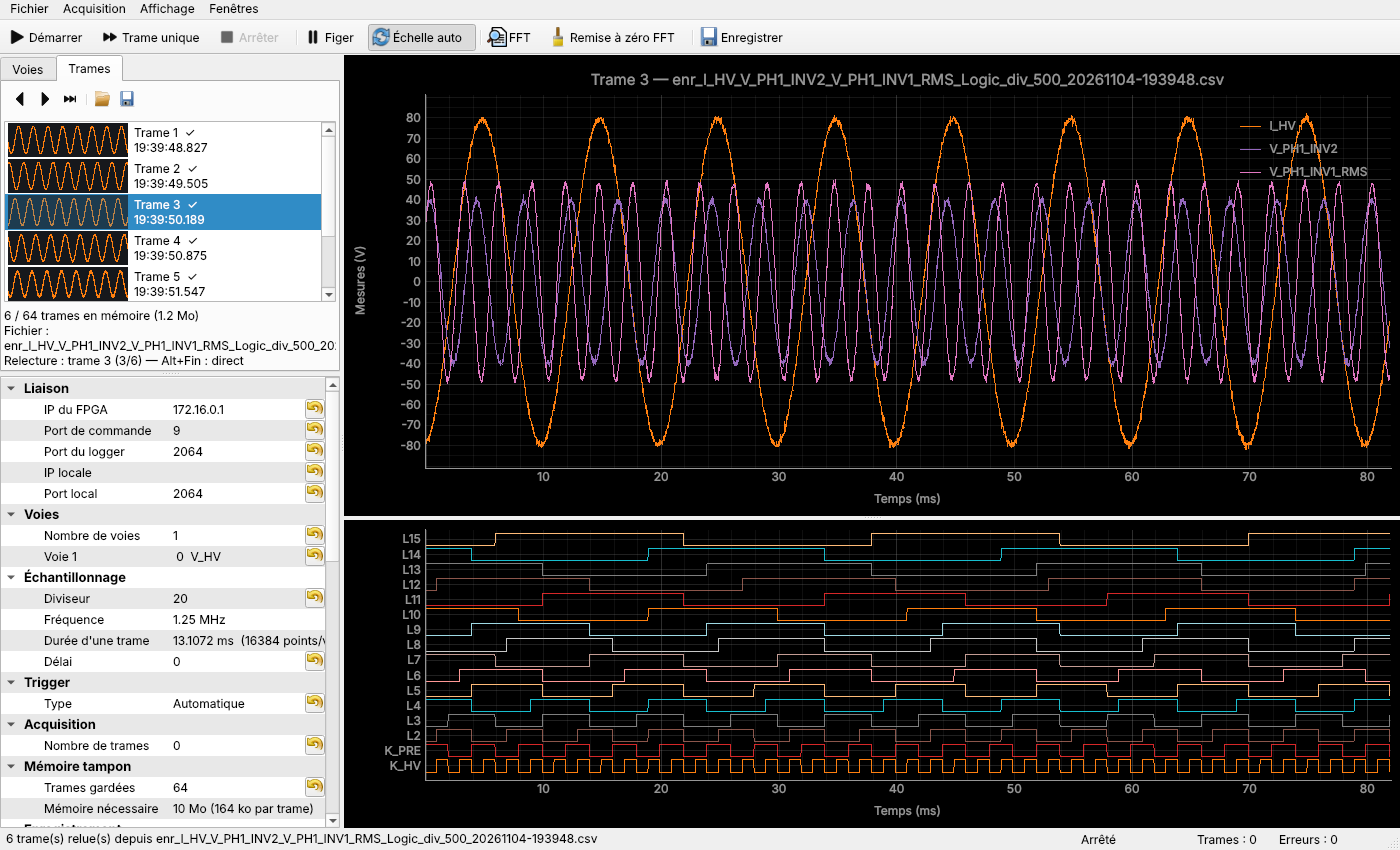
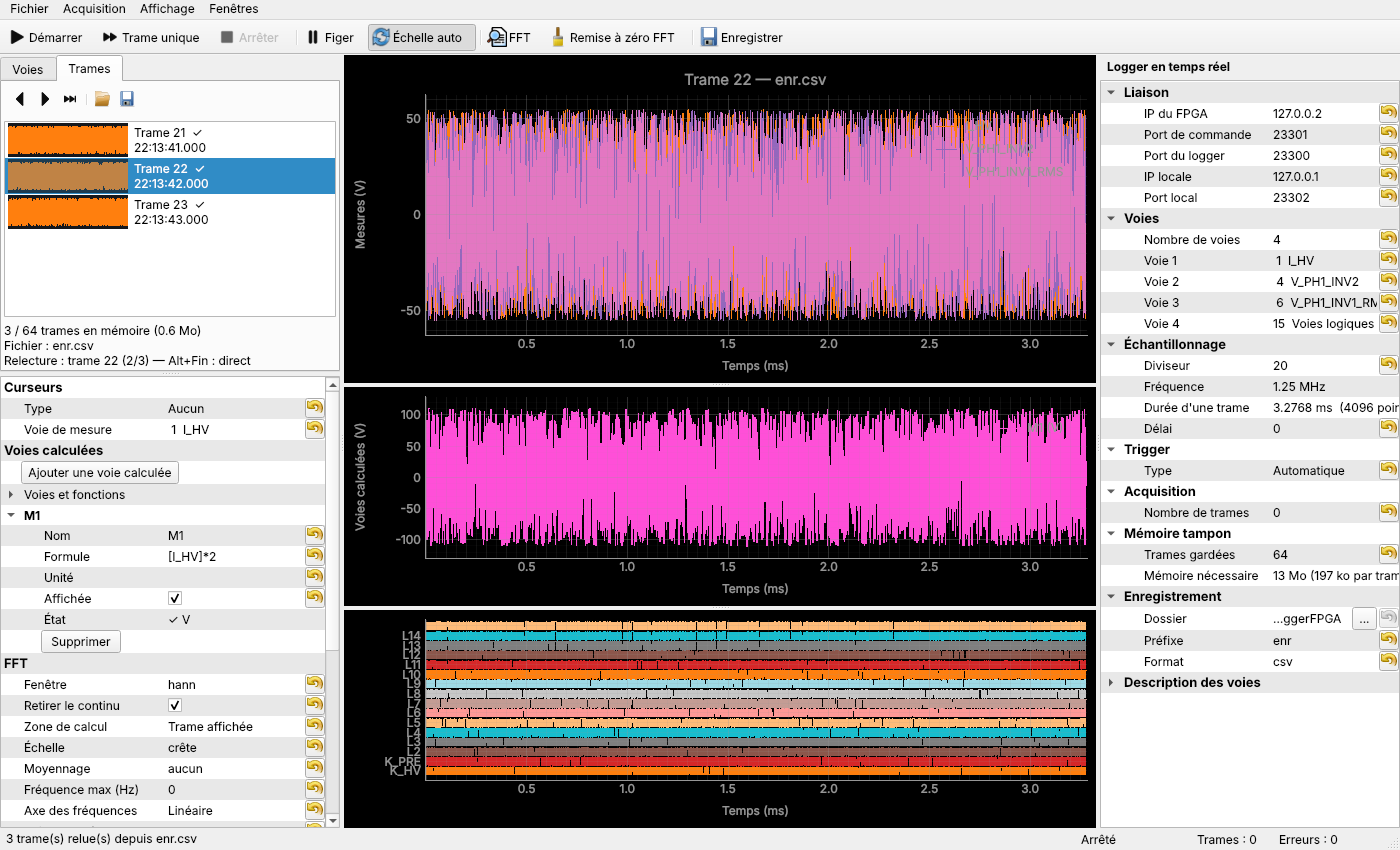
logger_app : réglages du logger en temps réel dans un panneau à droite
Le panneau « Logger en temps réel », à droite des graphiques, reçoit la
configuration de la liaison (liaison, voies, échantillonnage, trigger,
acquisition, mémoire tampon, enregistrement, description des voies).
À gauche restent les réglages communs au logger et aux enregistrements :
échelle de l'axe, curseurs, voies calculées, FFT.

Captures de la documentation refaites ; capture de la fenêtre principale
avec la FFT déportée produite par son test.

Claude-Session: https://claude.ai/code/session_01VbrmPKG2GfrmdsbhDeo1y3

diff --git a/logger_app/view/main_window.py b/logger_app/view/main_window.py
@@ -211,6 +211,8 @@ class MainWindow(QtWidgets.QMainWindow):
         self.tree_tabs.addTab(self.treechannels, "Voies")
         self.tree_tabs.addTab(self._init_frames_tab(), "Trames")
 
+        # réglages communs au logger et aux enregistrements : échelle de l'axe, voies
+        # calculées, curseurs, FFT
         self.configtree = ptree.ParameterTree(showHeader=False)
         self.left_splitter.addWidget(self.tree_tabs)
         self.left_splitter.addWidget(self.configtree)
@@ -250,9 +252,24 @@ class MainWindow(QtWidgets.QMainWindow):
         column.addWidget(self.overviewgraph)
         column.addWidget(self.graph_splitter)
         self.splitter.addWidget(graphs)
+        # réglages du logger en temps réel (liaison, voies, échantillonnage, trigger,
+        # acquisition, mémoire tampon, enregistrement, description des voies), à droite
+        self.loggerpanel = QtWidgets.QWidget()
+        right = QtWidgets.QVBoxLayout(self.loggerpanel)
+        right.setContentsMargins(0, 0, 0, 0)
+        right.setSpacing(2)
+        title = QtWidgets.QLabel("Logger en temps réel")
+        title.setStyleSheet("font-weight: bold; padding: 4px;")
+        right.addWidget(title)
+        self.loggertree = ptree.ParameterTree(showHeader=False)
+        right.addWidget(self.loggertree)
+        self.loggerpanel.setMinimumWidth(300)
+        self.splitter.addWidget(self.loggerpanel)
         self.splitter.setStretchFactor(0, 1)
         self.splitter.setStretchFactor(1, 4)
+        self.splitter.setStretchFactor(2, 1)
         self.splitter.setCollapsible(0, False)
+        self.splitter.setSizes([340, 760, 300])
         self.setCentralWidget(self.splitter)
 
     def _init_frames_tab(self) -> QtWidgets.QWidget:

diff --git a/logger_app/controller/main_controller.py b/logger_app/controller/main_controller.py
@@ -81,7 +81,8 @@ class MainController(QtCore.QObject):
         if cfg is None:
             cfg = self._load_last_config() if remember else LoggerConfig()
 
-        self.config_ctrl = ConfigController(view.configtree, resolve_record_dir(cfg))
+        # réglages du logger en temps réel : arbre de droite ; communs : arbre de gauche
+        self.config_ctrl = ConfigController(view.loggertree, resolve_record_dir(cfg))
         self.tree_ctrl = ChannelTreeController(view.treechannels)
         self.graph_ctrl = LiveGraphController(view.analoggraph, view.logicgraph, view.mathgraph)
         self.cursor_ctrl = CursorController(self.graph_ctrl, view.configtree)

diff --git a/logger_app/tests/test_gui.py b/logger_app/tests/test_gui.py
@@ -238,6 +238,7 @@ def test_detach_fft_window(setup):
     assert wait(qapp, lambda: not ctrl.acq_ctrl.running)
     fft_window.resize(640, 360)
     fft_window.grab().save(str(SHOTS / "logger_fft_detached.png"))
+    window.grab().save(str(SHOTS / "logger_main_fft_detached.png"))
 
     # FFT désactivée : fenêtre masquée ; réactivée : fenêtre réaffichée
     window.actionFFT.setChecked(False)

diff --git a/logger_app/README.md b/logger_app/README.md
@@ -91,7 +91,7 @@ logger_app/
 ├── controller/
 │   ├── udp_worker.py              AcquisitionWorker(QThread) : boucle de logger.m
 │   ├── acquisition_controller.py  démarrage / arrêt / relance du worker
-│   ├── config_controller.py       ParameterTree <-> LoggerConfig (voie de seuil, grandeurs dérivées)
+│   ├── config_controller.py       panneau « Logger en temps réel » <-> LoggerConfig (voie de seuil, grandeurs dérivées)
 │   ├── channel_tree_controller.py arborescence des voies (visibilité, valeur sous le curseur)
 │   ├── graph_controller.py        graphique temps réel (analogique + logique, seuil, curseur)
 │   ├── fft_controller.py          spectre temps réel et réglages FFT
@@ -168,6 +168,16 @@ son étiquette de version, pour que le logger ne change pas quand le socle évol
 travailler sur le socle en même temps, depuis une copie locale : `pip install -e
 ../../qtsocle`. Le moteur des voies calculées,
 [formules](https://github.com/florianmontaut/formules), s'installe de la même façon.
+
+### Disposition de la fenêtre
+
+| Gauche | Centre | Droite : *Logger en temps réel* |
+|---|---|---|
+| Arborescence des voies, onglet Trames | Barre du projet, vue d'ensemble (enregistrement d'oscilloscope) | Liaison, Voies, Échantillonnage |
+| Réglages communs au logger et aux enregistrements : *Échelle de l'axe* (enregistrements), *Curseurs*, *Voies calculées*, *FFT* | Graphiques (analogique, voies calculées, logique, FFT), déportables | Trigger, Acquisition, Mémoire tampon, Enregistrement, Description des voies |
+
+Le panneau de droite ne sert qu'à la liaison avec le logger : il se réduit ou s'élargit
+par son séparateur.
 
 ### Exécutable
 
@@ -374,7 +384,7 @@ fichier d'origine.
   écrit à côté du fichier. Sans lui, ils sont reconstitués depuis l'en-tête du CSV : les
   voies sont alors renumérotées 0, 1, 2… et l'heure de capture est inconnue.
 * **Affichage** : graphiques et arborescence prennent la configuration du fichier.
-  L'arbre des paramètres garde celle de l'acquisition, qui n'est pas modifiée par
+  Le panneau *Logger en temps réel* garde celle de l'acquisition, qui n'est pas modifiée par
   l'ouverture d'un fichier.
 * **Mémoire tampon** : le fichier la remplace. Si elle contient des trames non
   enregistrées, l'application propose de les enregistrer d'abord (question posée
